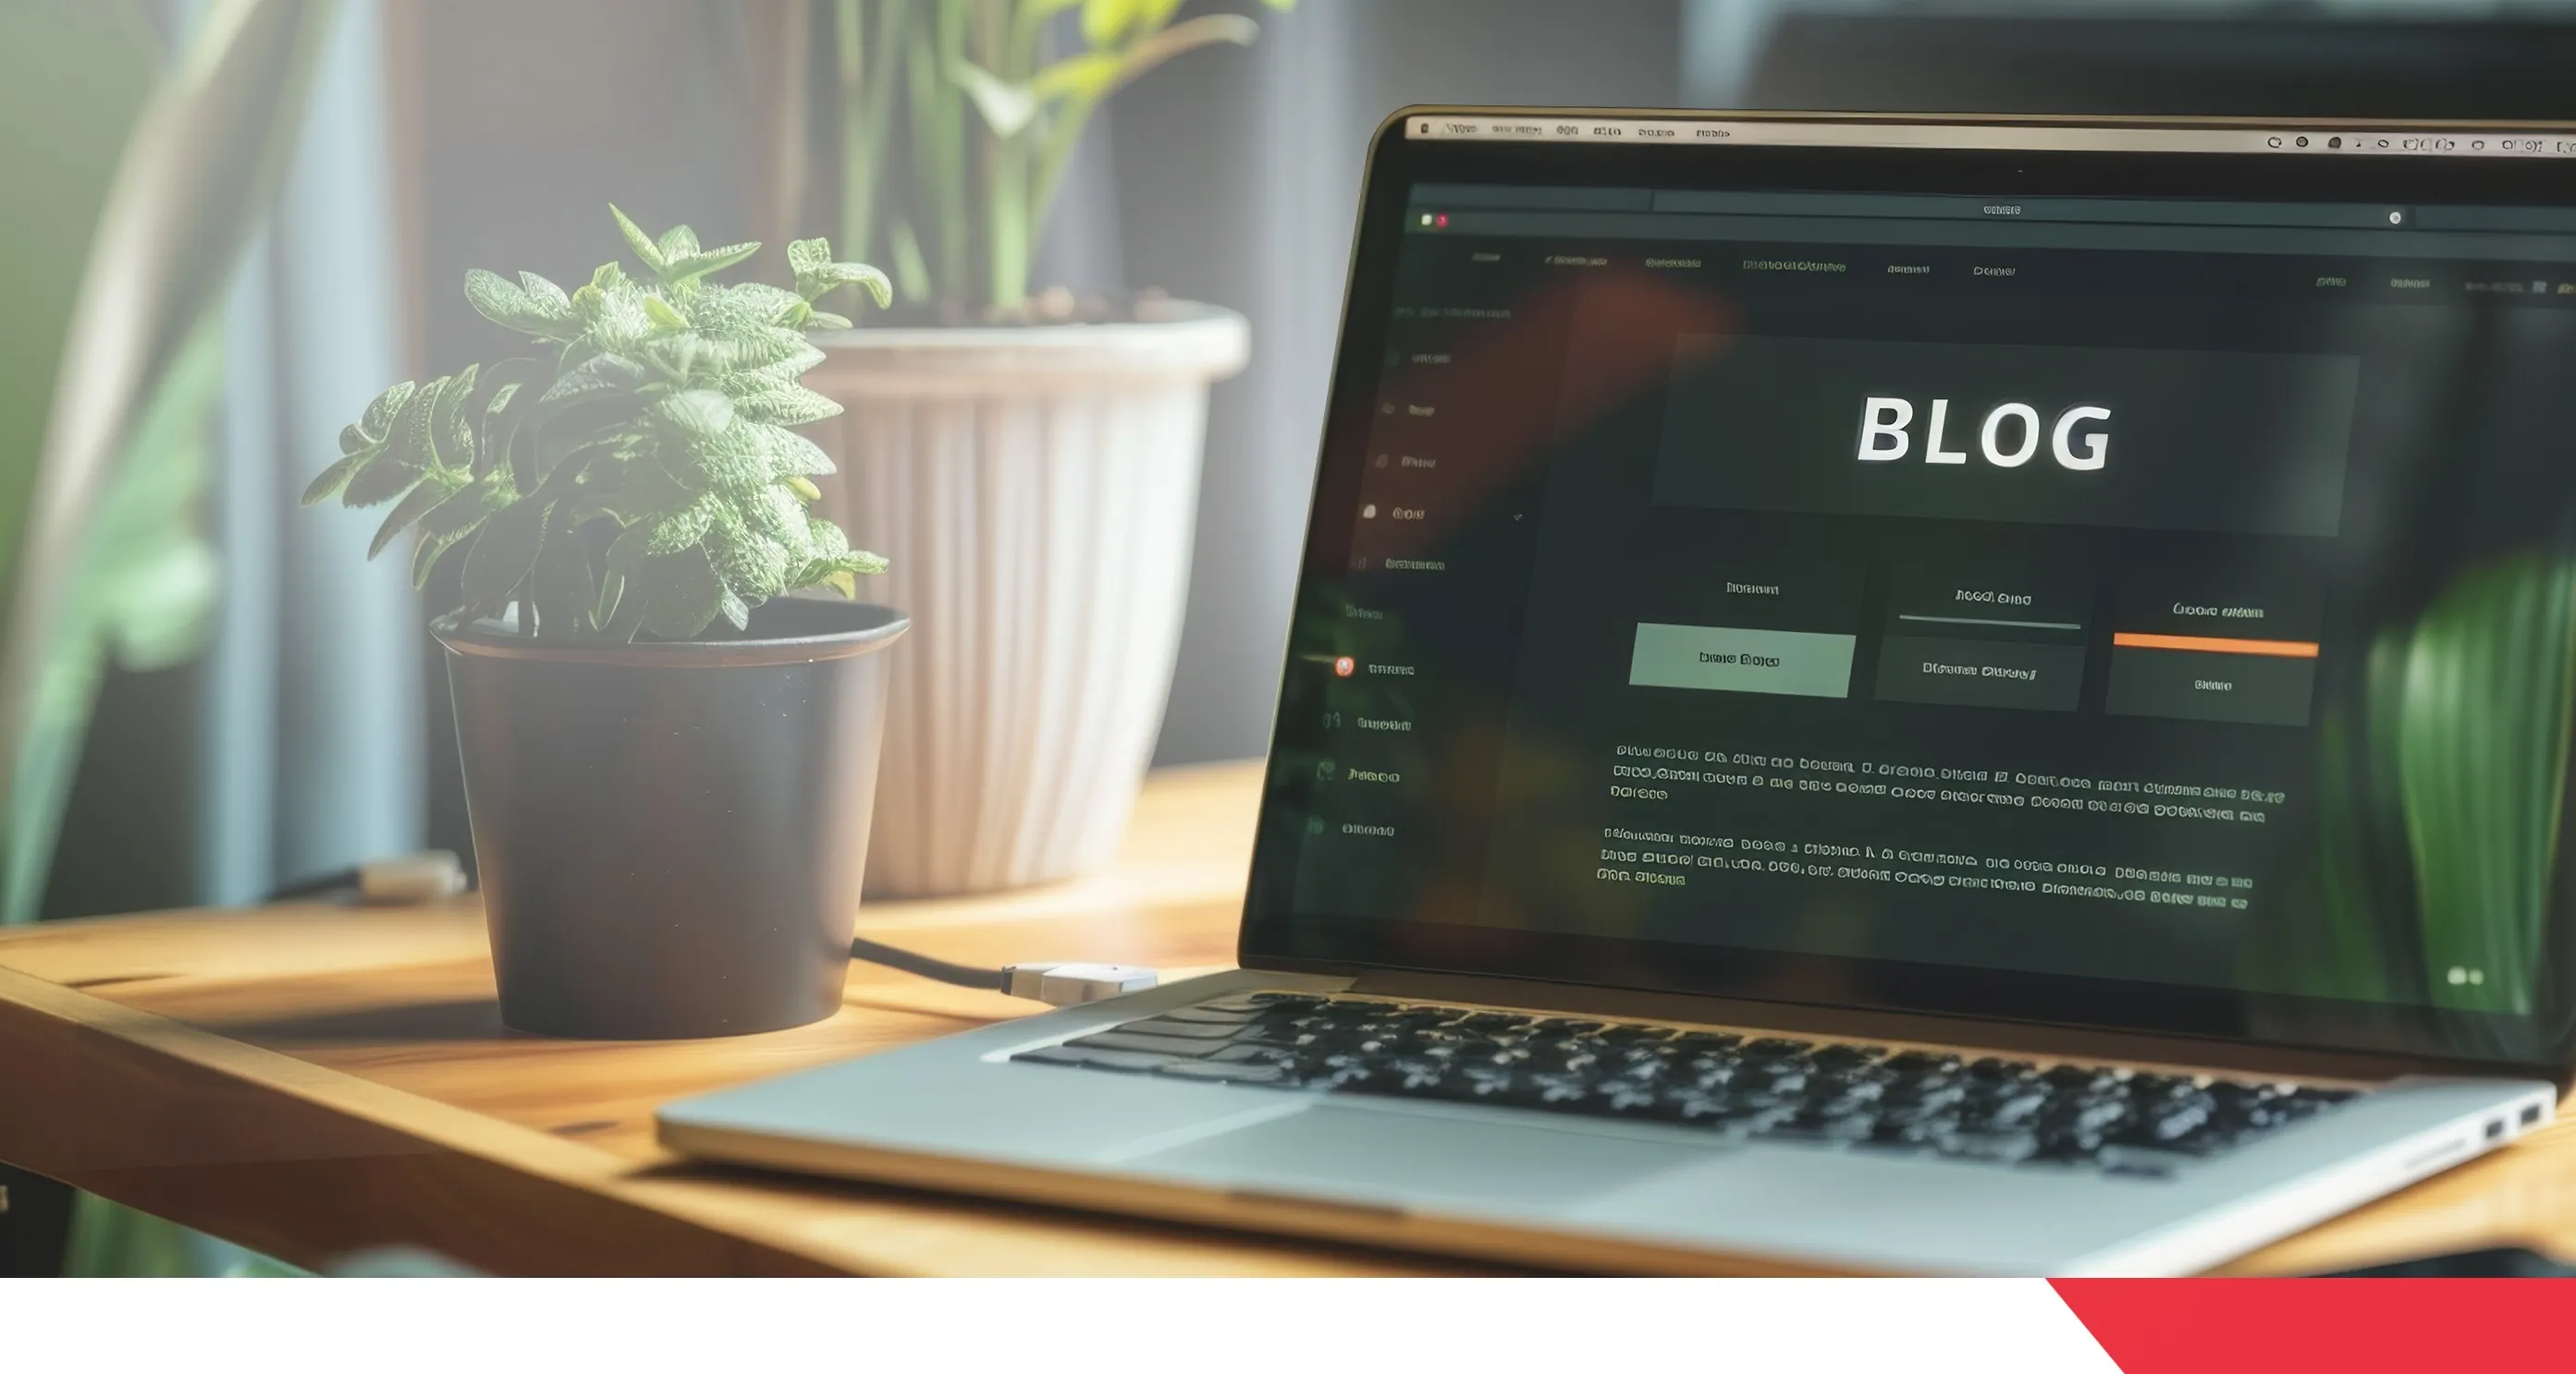
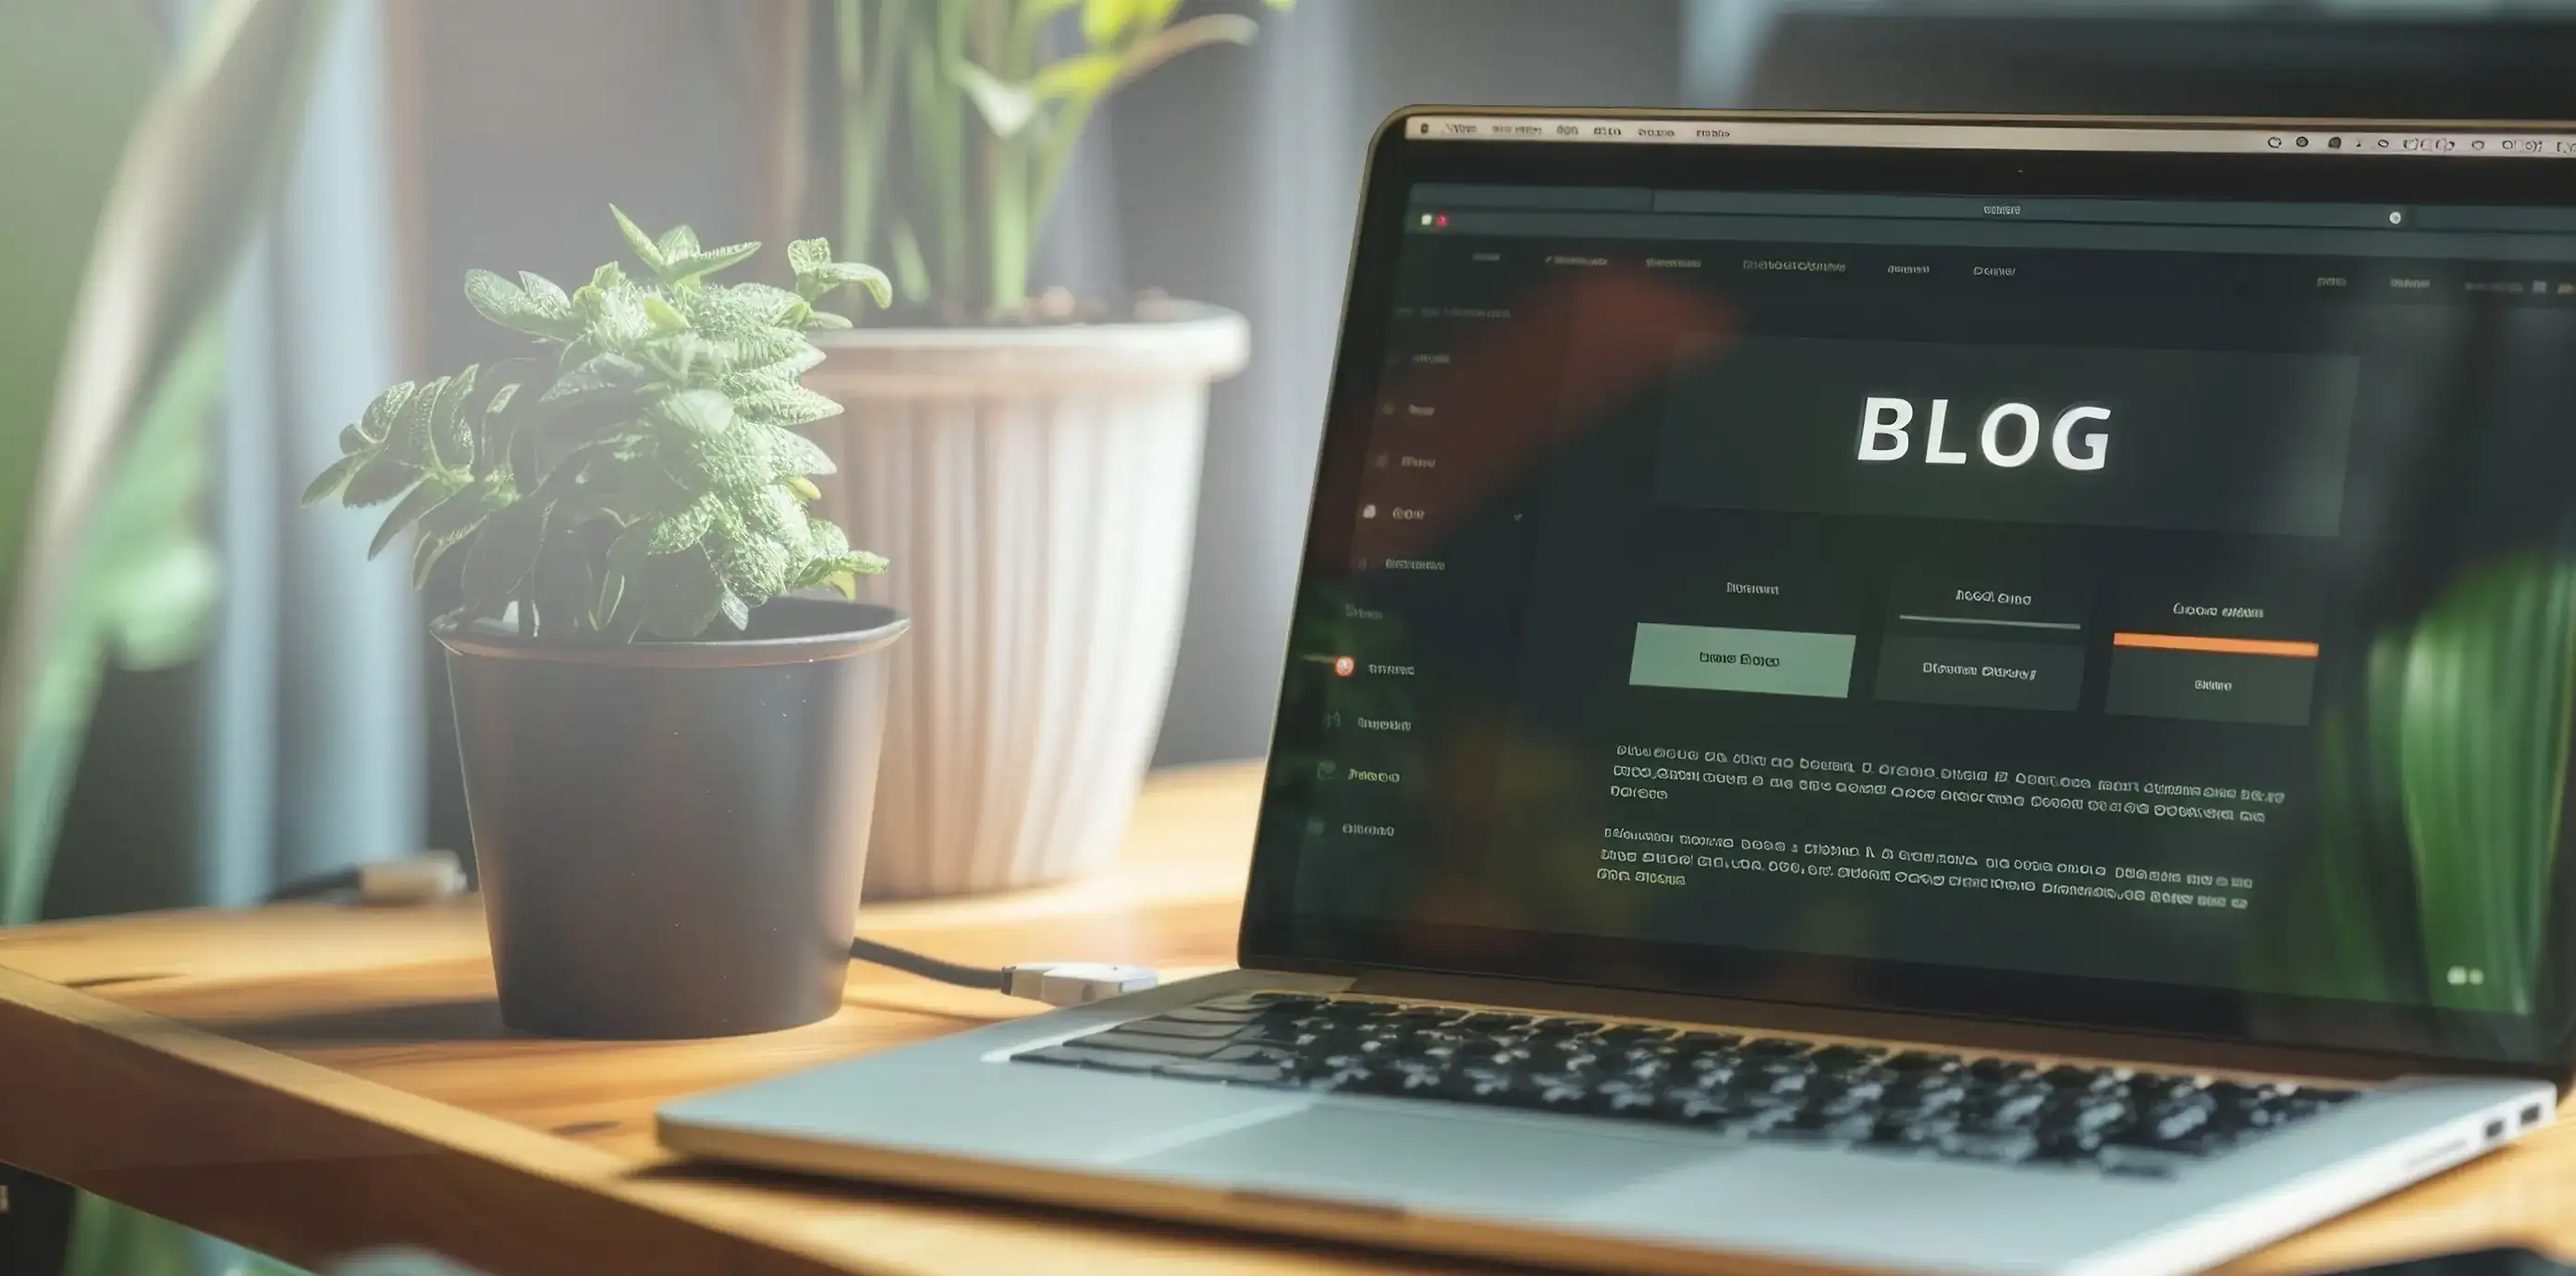
Blogs page hero background file update, hero and footer rework on content, design and layout

diff --git a/src/app/blogs/sections/hero.tsx b/src/app/blogs/sections/hero.tsx
@@ -1,81 +1,46 @@
 "use client";
 
-import React, { useEffect, useState, useRef } from 'react';
-import Link from 'next/link';
+import React, { useEffect } from 'react';
+// import Image from 'next/image';
 
 const Hero: React.FC = () => {
-  const [fadeOut, setFadeOut] = useState(false);
-  const fadeOutThreshold = -20;
-  const heroRef = useRef<HTMLDivElement | null>(null); // 👈 Step 1: create ref
-
   // Scroll to top on page load
   useEffect(() => {
     history.scrollRestoration = 'manual';
     window.scrollTo(0, 0);
   }, []);
 
-  // Fade out hero section based on scroll
-  useEffect(() => {
-    const hero = heroRef.current;
-    if (!hero) return;
-
-    let ticking = false;
-
-    const handleScroll = () => {
-      if (!ticking) {
-        window.requestAnimationFrame(() => {
-          const { top } = hero.getBoundingClientRect();
-          const shouldFadeOut = top < fadeOutThreshold;
-          setFadeOut(prev => (prev !== shouldFadeOut ? shouldFadeOut : prev));
-          ticking = false;
-        });
-        ticking = true;
-      }
-    };
-
-    window.addEventListener('scroll', handleScroll);
-    return () => window.removeEventListener('scroll', handleScroll);
-  }, [fadeOutThreshold]);
-
   return (
     <div
       id="hero-section"
-      ref={heroRef}
-      style={{
-        backgroundImage: "url('/backgrounds/blog/Hero_Blog.webp')",
-        backgroundSize: "cover",
-        backgroundPosition: "center",
-        backgroundRepeat: "no-repeat"
-      }}
-      className='relative flex items-center overflow-hidden h-116 scrn-400:h-116 scrn-450:h-118 scrn-500:h-118 scrn-550:h-118 scrn-600:h-120 scrn-650:h-120 scrn-700:h-120 scrn-800:h-120 scrn-850:h-124 scrn-900:h-128 scrn-950:h-132 scrn-1000:h-144 scrn-1100:h-148 scrn-1150:h-156 scrn-1200:h-164 scrn-1250:h-168 scrn-1300:h-176 scrn-1350:h-180 scrn-1400:h-188 scrn-1450:h-195 scrn-1500:h-198 scrn-1550:h-208 scrn-1600:h-216 scrn-1650:h-224 scrn-1700:h-228 scrn-1750:h-232 scrn-1800:h-240 scrn-1850:h-248 scrn-1900:h-236 scrn-1950:h-260 scrn-2000:h-268 scrn-2050:h-276 scrn-2100:h-280 scrn-2150:h-288 scrn-2200:h-296 scrn-2250:h-304 scrn-2300:h-308 scrn-2350:h-312 scrn-2400:h-316 scrn-2450:h-324 scrn-2500:h-326'>
-
-      {/* Left Text Section */}
-      <div className={`fixed 
-      scrn-750:ms-0 
-      p-2 
-      scrn-600:ps-4 
-      text-left transition-opacity duration-75
-        ${fadeOut ? 'opacity-0 pointer-events-none' : 'opacity-100'}
-      `}>
-        {/* Breadcrumb */}
-        <nav>
-          <ul className='flex z-50 scrn-600:items-center space-x-2 font-semibold text-gray-600 tracking-widest text-2xs scrn-600:text-xs scrn-750:text-sm scrn-1000:text-lg scrn-1500:text-xl'>
-            <li>
-              <Link href="/" className='hover:text-[#c62931]'>
-                Home
-              </Link>
-            </li>
-            <li>/</li>
-            <li className='text-[#c62931]'>Blogs</li>
-          </ul>
-        </nav>
-
+      className='
+      bg-[url("/backgrounds/blog/Hero_Blog.webp")] bg-cover bg-top bg-no-repeat bg-blend-multiply bg-black/40
+      items-center relative flex overflow-hidden h-screen'>
+      <div>
+        {/* Top div */}
         <div>
-          <h1>
-            <span className='font-semibold whitespace-nowrap text-[#c62931] text-5xl scrn-400:text-6xl scrn-450:text-7xl scrn-600:text-8xl scrn-900:text-9xl scrn-1300:text-10xl scrn-1500:text-11xl scrn-1700:text-12xl scrn-1900:text-13xl scrn-2400:text-14xl'>
-              APEC <br /> BLOG
+          <h1 className='ps-8 pe-4 scrn-750:pe-0 scrn-750:w-4/5 scrn-1700:w-1/2'>
+            <span className='font-bold scrn-750:font-semibold whitespace-normal text-gray-200 text-4xl scrn-750:text-6xl scrn-1000:text-7xl tracking-wide'>
+              Insights That Fuel the Future — Oil and Gas Industry Blogs
             </span>
           </h1>
+        </div>
+
+        {/* Bottom div */}
+        <div className='text-gray-200 font-normal ps-8 pe-4 scrn-750:pe-0 pt-8 scrn-750:w-4/5 scrn-1700:w-1/2'>
+          <h1 className='text-2xl scrn-750:text-2xl scrn-1000:text-3xl scrn-1500:text-4xl'>
+            Powered by 30+ years of industry experience, APEC’s blog helps fuel retailers
+            and energy professionals stay ahead with expert insights, trends, and compliance updates.
+          </h1>
+          <button
+            type="button"
+            className="bg-[#c62931] text-white py-4 px-12 mt-8 rounded-md font-semibold hover:bg-red-500 transition"
+            onClick={() => {
+              window.scrollBy({ top: window.innerHeight, behavior: "smooth" });
+            }}
+          >
+            READ MORE
+          </button>
         </div>
       </div>
     </div>

diff --git a/src/app/blogs/page.tsx b/src/app/blogs/page.tsx
@@ -1,3 +1,4 @@
+import HeaderWhite from "@/components/headerWhite";
 import Footer from "@/components/footer";
 import BlogMain from "./sections/main";
 import Hero from "./sections/hero";
@@ -15,9 +16,15 @@ export const metadata: Metadata = {
 const Contact: React.FC = () => {
   return (
     <div className='flex flex-col'>
+      <HeaderWhite />
       <Hero />
       <BlogMain />
-      <Footer />
+      <div className="w-full">
+        <div className="h-4 bg-gradient-to-r from-gray-800 to-red-600 -mb-1" />
+      </div>
+      <div className='bg-gray-800'>
+        <Footer />
+      </div>
     </div>
   );
 };

diff --git a/src/app/blogs/layout.tsx b/src/app/blogs/layout.tsx
@@ -2,9 +2,6 @@ import Header from '@/components/header';
 
 export default function BlogLayout({ children }: { children: React.ReactNode }) {
   return (
-    <div className='bg-[url("/backgrounds/blog/Background_Blog.webp")] bg-cover bg-top bg-no-repeat min-h-screen'>
-      <Header />
-      <div className='w-full'>{children}</div>
-    </div>
+    <div className='bg-gray-200 w-full'>{children}</div>
   );
 }
